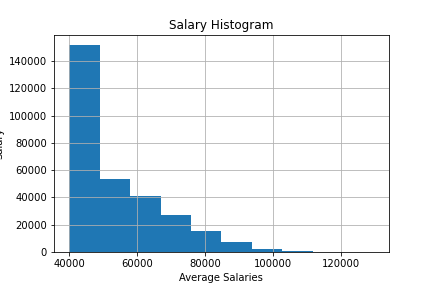
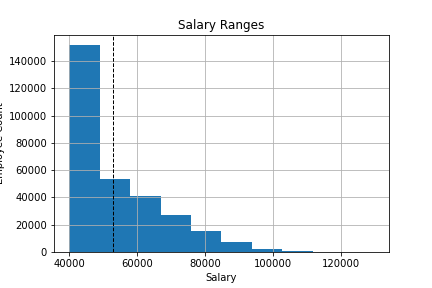
Finishing up the homework

diff --git a/README.md b/README.md
@@ -5,7 +5,7 @@
 
 ## Links to files
 
-I've attached links to the files as I've organized them into the sections they were given us to work on. The first portion is *Data Modeling*. The link to that directory is: [Data Modeling](https://github.com/slobanwala1/sql-challenge/tree/main/my_submission/Data_Modeling). The second portion is *Data Engineering* and heres the link: [Data Engineering](https://github.com/slobanwala1/sql-challenge/tree/main/my_submission/Data_Engineering). The third portion is *Data Analysis* and is located at: [Data Analysis](https://github.com/slobanwala1/sql-challenge/tree/main/my_submission/Data_Analysis). Finally the fun portion to see the data in a visual form was in the *Bonus* portion. That is located at: [Bonus](https://github.com/slobanwala1/sql-challenge/tree/main/my_submission/Bonus). The *graphs* are located in [Images](https://github.com/slobanwala1/sql-challenge/tree/main/my_submission/Images). Heres my analysis after working on the whole project:
+I've attached links to the files as I've organized them into the sections they were given us to work on. The first portion is *Data Modeling*. The link to that directory is: [Data Modeling](https://github.com/slobanwala1/sql-challenge/tree/main/my_submission/Data_Modeling). The second portion is *Data Engineering* and heres the link: [Data Engineering](https://github.com/slobanwala1/sql-challenge/tree/main/my_submission/Data_Engineering). The third portion is *Data Analysis* and is located at: [Data Analysis](https://github.com/slobanwala1/sql-challenge/tree/main/my_submission/Data_Analysis). Finally the fun portion to see the data in a visual form was in the *Bonus* portion. That is located at: [Bonus](https://github.com/slobanwala1/sql-challenge/tree/main/my_submission/Bonus). The *graphs* are located in [Images](https://github.com/slobanwala1/sql-challenge/tree/main/my_submission/Images). Here's the link to the [Instructor prompt](https://github.com/slobanwala1/sql-challenge/blob/main/my_submission/README.md). Heres my analysis after working on the whole project:
 
 ### SQL Analysis:
 
@@ -21,3 +21,29 @@ After working on the ERD's there were a few changes I had to make each time due 
 <img src="https://github.com/slobanwala1/sql-challenge/blob/main/my_submission/Images/Pewlett_Hackard_files_ERD_ImgOnly.PNG" width="681">
 
 Heres the links to the [ERD with the sql code](https://github.com/slobanwala1/sql-challenge/blob/main/my_submission/Images/Pewlett_Hackard_files_ERD.PNG) and a [txt file](https://github.com/slobanwala1/sql-challenge/blob/main/my_submission/Data_Modeling/Pewlett_Hackard_files_ERD_text.txt) with just the sql code.
+
+#### Data Engineering:
+
+After creating the ERD it was easier to do the analysis except we had to make a composite key for dept_manager and dept_emp we had to make a primary key that connected both emp_no and dept_no so
+one employee and one department cant have duplicates but an employee can have multiple departments or vice versa. Then I had an issue with dropping tables unless I make sure they exist and cascade them when dropping them to remove dependencies. After this it was just inserting tables in the correct order and then importing them in the correct order because if there's dependencies than the tables won't connect. For example titles had to be imported first, then employees and departments and finally the last three tables. Here's the link to the [create tables file](https://github.com/slobanwala1/sql-challenge/blob/main/my_submission/Data_Engineering/table_schema.sql).
+
+#### Data Analysis:
+
+Data analysis did not give too many issues as once the tables were set up and data was imported it was a matter of joining tables and googling different keywords that SQL uses. No issues here however the last question had me quite interested that so many last names had such a huge count. Meaning lots of last names had more than 200 people for them. Here's the link to the [sql queries](https://github.com/slobanwala1/sql-challenge/blob/main/my_submission/Data_Analysis/Pewlett_Hackard_queries.sql).
+
+#### Bonus:
+
+The analysis for the bonus section was quite interesting. First here's the visuals. The first visual is a histogram of the salaries:
+
+<br>
+<br>
+<img src="https://github.com/slobanwala1/sql-challenge/blob/main/my_submission/Images/Salary_Histogram.png" width="500">
+
+Second is the bar graph of Salaries vs Employee title:
+
+<br>
+<br>
+<img src="https://github.com/slobanwala1/sql-challenge/blob/main/my_submission/Images/Salary_vs_EmpTitle.png" width="500">
+
+Lets first analyze the histogram. From what I see > 70% of the staff makes around $40,000 while very little make > $100,000. The average is above 50,000 and nearing 60,000. This make sense as there's more labor staff or Jr. level positions working while less Sr. level positions managing the others or working as leads on a project or in the Clientele side. This was expected but still interesting to see. The second graph shows us Avg salary by Employee Title. Sadly some of it was cutoff because plt.savefig() likes to make life difficult for names above the size of 5. However you can see the names in the [Python Jupyter Notebook](https://github.com/slobanwala1/sql-challenge/blob/main/my_submission/Bonus/sql_challenge_bonus_analysis.ipynb), but for the sake of the analysis I can tell you what those columns are. One is Staff and Senior Staff, which means one is ambigious for making so much money while the other hass more expierence in the company thus making sense as promotions every year/salary raises. I believe the point of the homework was to find that what does Staff mean since it's one of the two titles that has the highest average salary and that was the analysis besides learning all these other things. The homework was interesting, and this portion was definetly worth the work. I could not get sqlalchemy to work for me, so I went another route: using psycopg2 as the way to connect to pgadmin. I used youtube tutorials and documentation as well as stackoverflow, but once it connected everything else was much more interesting for the bonus analysis. Thanks for taking the time to read the README documentation for this HW and hopefully you enjoyed the journey as much as I did.
+
